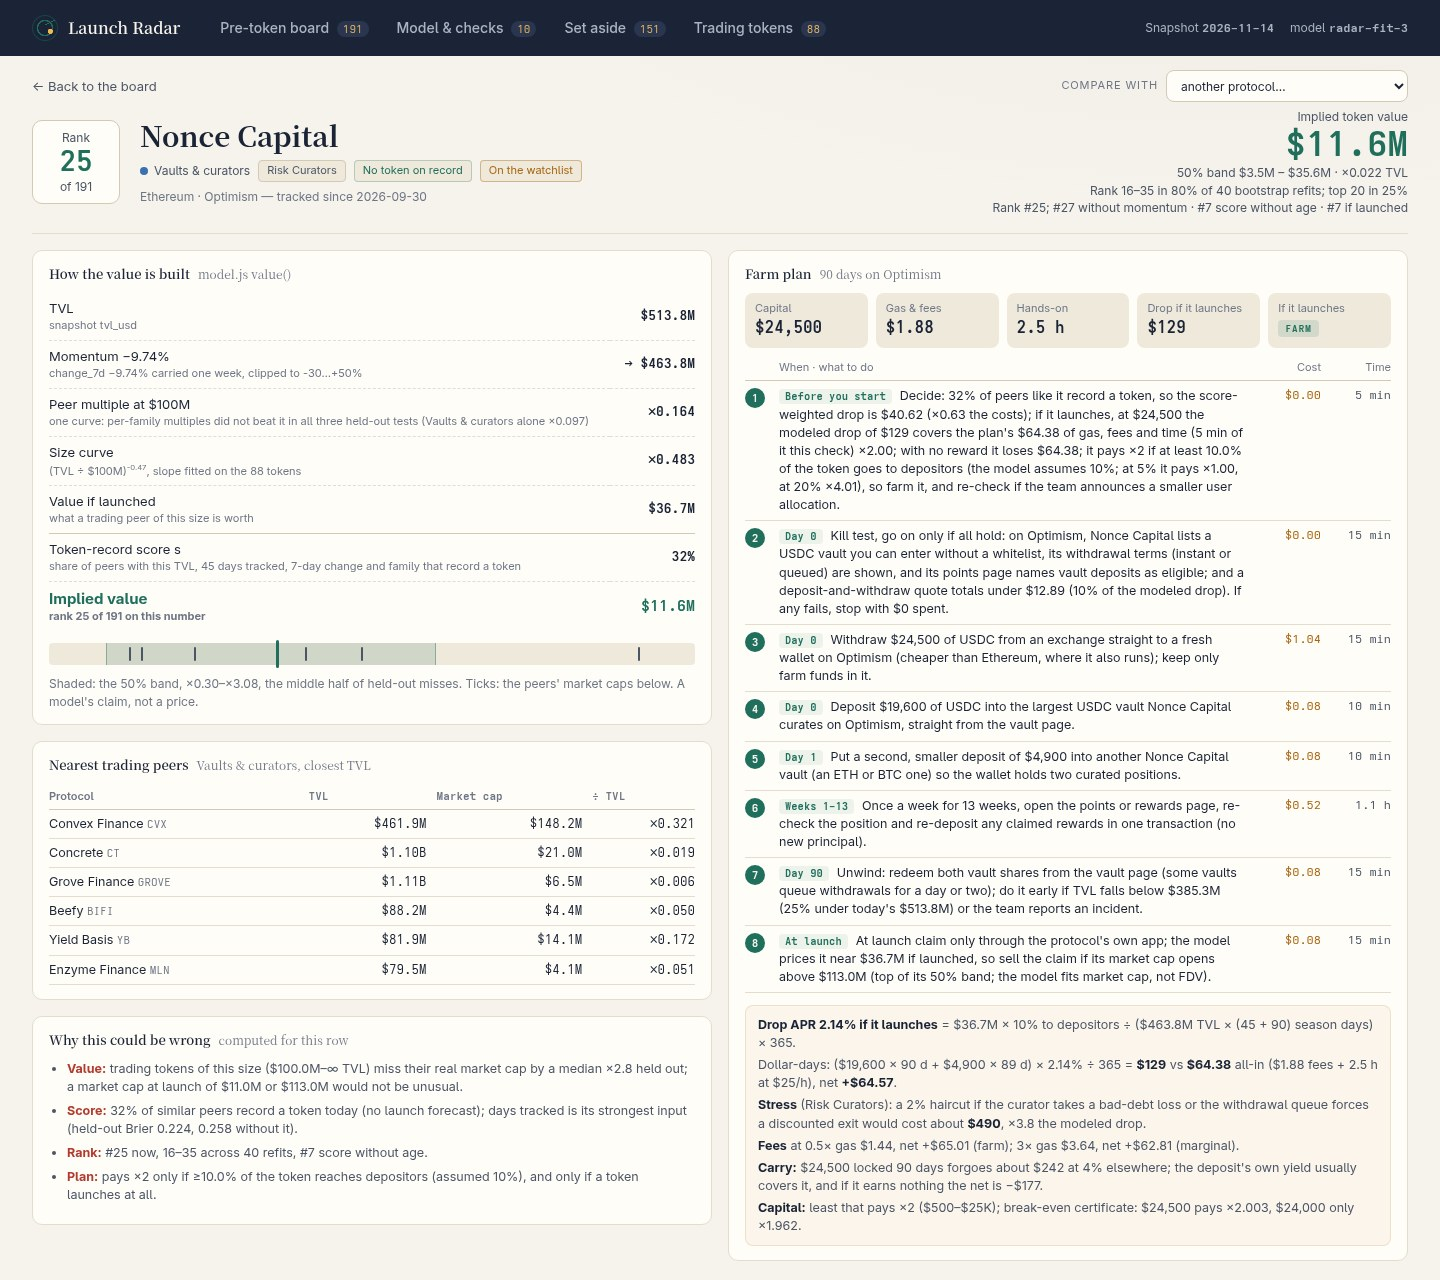
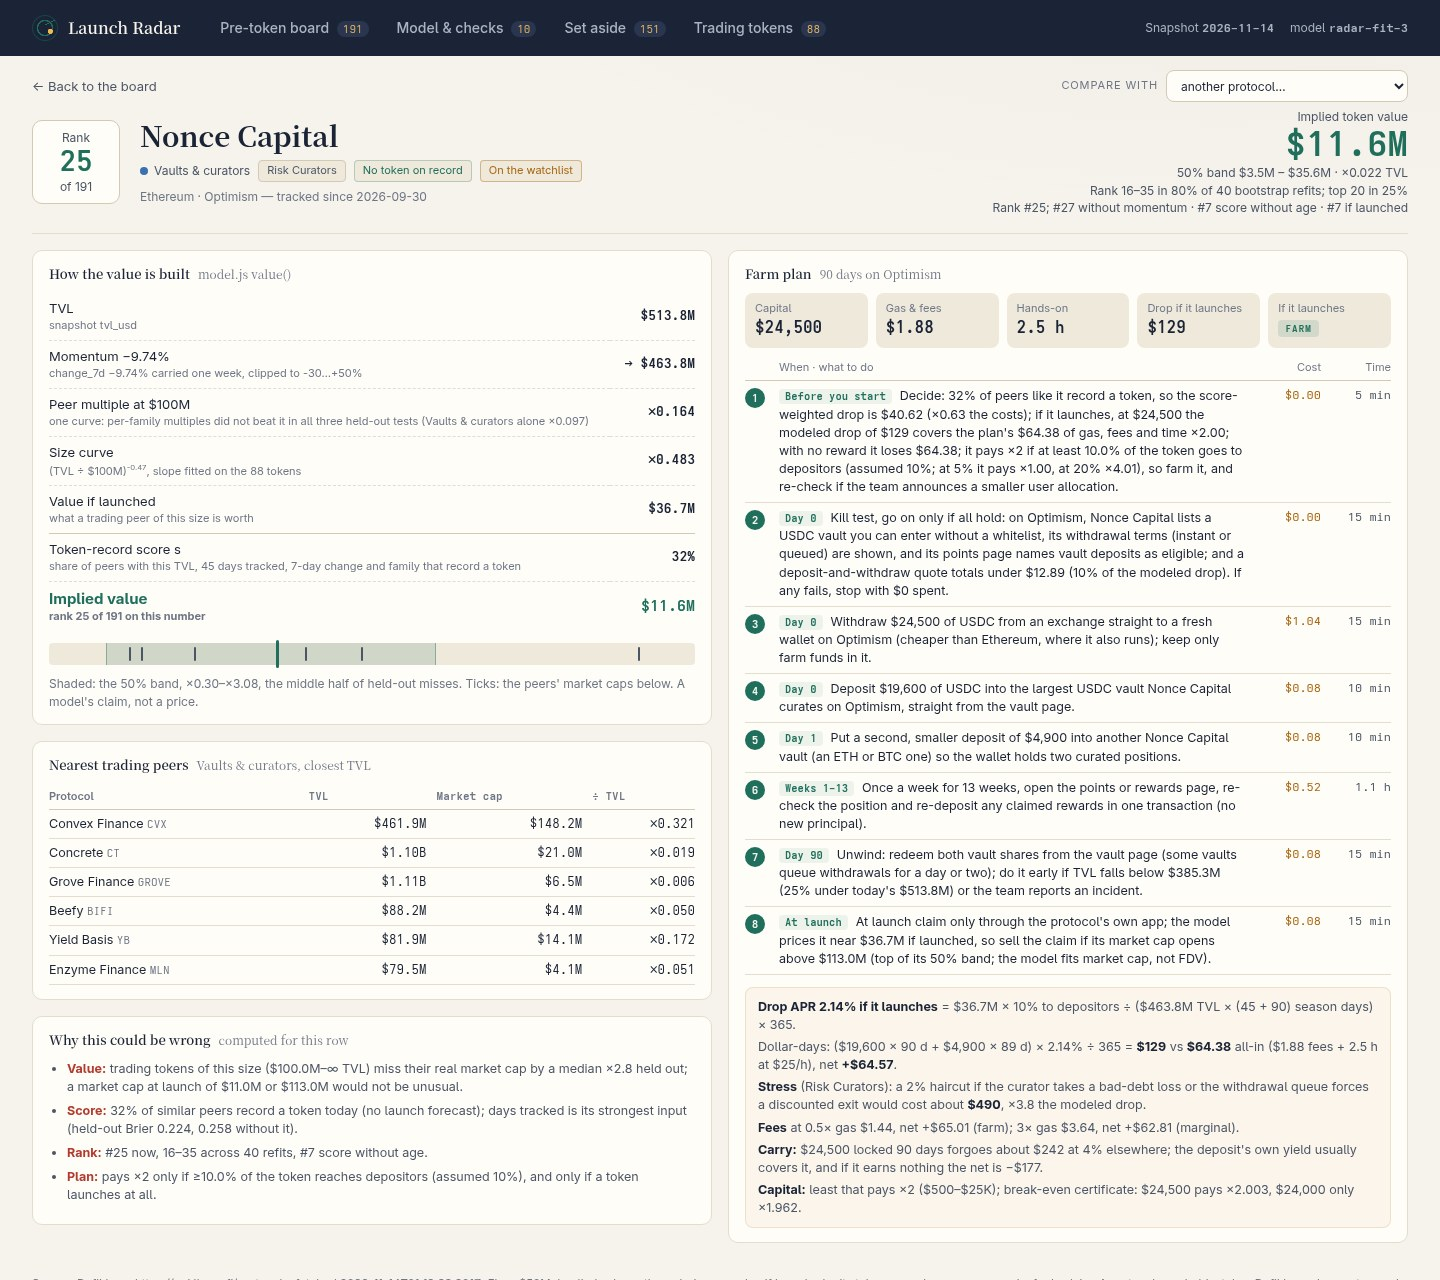
stepText keeps every step's cost and time (over 600 chars the action is shortened, never the tail); decision text tightened so no step needs it; certificate stays in the detail's Capital line

Changed region(s): [[0.5, 0.3438, 0.9688, 0.9688], [0.875, 0.7188, 0.9688, 0.75], [0.875, 0.4688, 0.9688, 0.5]]

diff --git a/dashboard/model.js b/dashboard/model.js
@@ -312,8 +312,8 @@
    cert = cert || [payCap - 1000, at(payCap - 1000), payCap, at(payCap)];
   }
   st.unshift({ when: 'Before you start', usd: 0, min: 5, act: 'Decide: ' + Math.round(v.time_factor * 100) + '% of peers like it record a token, so the score-weighted drop is ' + usd(drop * v.time_factor) + ' (×' + (drop * v.time_factor / t.all).toFixed(2) + ' the costs); if it launches, at ' + amt(capital) + ' the modeled drop of ' + usd(drop) + ' covers the plan\'s ' + usd(t.all) +
-   ' of gas, fees and time (5 min of it this check) ×' + (drop / t.all).toFixed(2) + '; with no reward it loses ' + usd(t.all) + (verdict === 'farm' ? '' : '; before your time it nets ' + (drop >= t.cost ? '+' : '−') + usd(Math.abs(drop - t.cost)) + ', and ' + (payCap ? 'it would pay ×' + M.target_cover + ' at ' + amt(payCap) + ' of capital (' + amt(payCap - 1000) + ' pays only ×' + at(payCap - 1000).toFixed(3) + ')' : 'no deposit up to $1M pays ×' + M.target_cover + ' because its fees grow with the deposit')) + '; it pays ×' + M.target_cover + ' if at least ' + (needShare * 100).toFixed(1) +
-   '% of the token goes to depositors (the model assumes ' + M.drop_share * 100 + '%; at 5% it pays ×' + (drop / t.all / 2).toFixed(2) + ', at 20% ×' + (drop / t.all * 2).toFixed(2) + '), so ' + (verdict === 'farm' ? 'farm it, and re-check if the team announces a smaller user allocation' : verdict === 'skip' ? 'skip it unless the team announces a larger user allocation' : 'farm it only with funds already on ' + chain) });
+   ' of gas, fees and time ×' + (drop / t.all).toFixed(2) + '; with no reward it loses ' + usd(t.all) + (verdict === 'farm' ? '' : '; before your time it nets ' + (drop >= t.cost ? '+' : '−') + usd(Math.abs(drop - t.cost)) + ', and ' + (payCap ? 'it would pay ×' + M.target_cover + ' at ' + amt(payCap) + ' of capital' : 'no deposit up to $1M pays ×' + M.target_cover + ' because its fees grow with the deposit')) + '; it pays ×' + M.target_cover + ' if at least ' + (needShare * 100).toFixed(1) +
+   '% of the token goes to depositors (assumed ' + M.drop_share * 100 + '%; at 5% it pays ×' + (drop / t.all / 2).toFixed(2) + ', at 20% ×' + (drop / t.all * 2).toFixed(2) + '), so ' + (verdict === 'farm' ? 'farm it, and re-check if the team announces a smaller user allocation' : verdict === 'skip' ? 'skip it unless a larger user allocation is announced' : 'farm it only with funds already on ' + chain) });
   if (verdict === 'skip') {
    st = [st[0],
     { when: 'Day 0', usd: 0, min: 15, act: 'Research only, no deposit: check whether ' + ACT[kind][3].replace(/\{N\}/g, p.name).replace(/\{C\}/g, chain) },
@@ -326,8 +326,9 @@
    days: M.farm_days, drop: drop, net: drop - t.all, need_share: needShare, pay_cap: payCap, cert: cert, verdict: verdict };
  }
  function stepText(s) {
-  var t = s.when + ': ' + s.act + '. Cost: about ' + usd(s.usd) + '. Time: ' + mins(s.min) + '.';
-  return t.length > 600 ? t.slice(0, 597) + '...' : t;
+  // Over 600 characters the action is shortened, never the cost and time.
+  var tail = '. Cost: about ' + usd(s.usd) + '. Time: ' + mins(s.min) + '.', head = s.when + ': ' + s.act;
+  return (head.length + tail.length > 600 ? head.slice(0, 597 - tail.length) + '...' : head) + tail;
  }
 
  /* The whole radar: the fit, the ranked pre-token board, and the trading set kept apart. */
